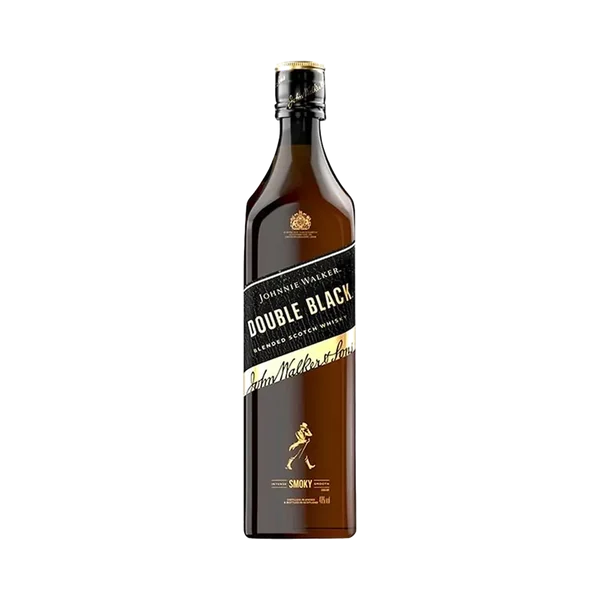
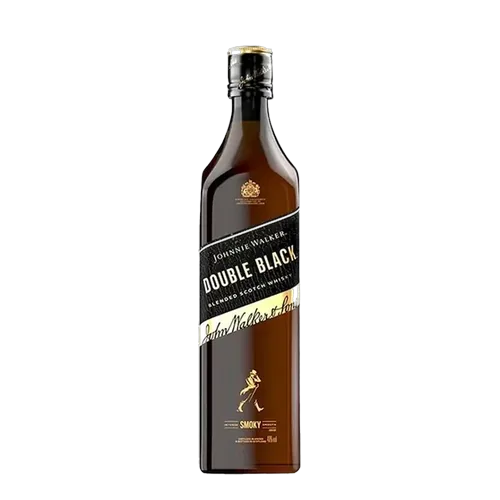
Arreglar el recorte de las fotos en la tarjeta
Las botellas salían cortadas por abajo. La causa es una referencia
circular de CSS Grid, no las fotos:

  .card__img mide 150px de alto, pero su fila implícita es "auto". La
  foto se limita por max-width:82% (223px), y al ser cuadrada pide 223px
  de alto; eso estira la fila a 223px. El max-height:86% de la foto se
  resuelve entonces contra la fila, no contra los 150px de la caja:
  86% de 223 = 192px. El overflow:hidden recortaba los 58px sobrantes,
  que eran justo la base de la botella.

Se fija la fila con grid-template-rows:100%. El 86% vuelve a significar
86% de 150.

El defecto venía de antes; las fotos normalizadas solo lo hicieron
visible. Antes cada foto traía su propio aire y el recorte se comía
espacio vacío en vez de producto.

De paso, 96/92 en lugar de 86/82: las fotos ya vienen con su margen
—el producto ocupa el 86% del lienzo— así que el margen del CSS se
sumaba al de la imagen y dejaba la botella en el 73% de la caja. Ahora
queda en 82% y sigue sobrando holgura para una foto que suban por el
panel sin pasar por la herramienta.

Verificado en escritorio y móvil: peor desborde -3px y -2px.

Las 64 fotos del catálogo pasan a .webp normalizado.

Changed region(s): [[0.39, 0.09, 0.6, 0.96]]

diff --git a/src/Boleto.Web/wwwroot/css/styles.css b/src/Boleto.Web/wwwroot/css/styles.css
@@ -736,15 +736,27 @@ a {
     position: relative;
     overflow: hidden;
     display: grid;
+    /* La fila se fija al alto de la caja. Sin esto es una fila implícita
+       "auto", y el max-height:86% de la foto se resuelve contra ella en vez
+       de contra los 150px: la foto estira la fila, la fila agranda el tope
+       de la foto, y el overflow:hidden termina cortando la botella por
+       abajo. Con la fila fijada, el 86% vuelve a significar 86% de 150. */
+    grid-template-rows: 100%;
     place-items: center;
     background: radial-gradient(circle at 50% 38%,#FFF,var(--crema) 72%);
     border-bottom: 1px solid var(--crema-2);
 }
 /* Se contiene por ancho Y alto: con solo height la imagen se desborda
-   y tapa el cuerpo de la tarjeta. */
+   y tapa el cuerpo de la tarjeta.
+
+   96/92 y no 86/82: las fotos ya vienen normalizadas con su propio aire
+   —el producto ocupa el 86% del lienzo— así que el margen que agregaba el
+   CSS se sumaba al de la imagen y dejaba la botella en el 73% de la caja.
+   Con esto sube al 82% y sigue sobrando holgura para una foto que suban
+   por el panel sin pasar por tools/preparar_fotos.py. */
 .card__foto {
-    max-width: 82%;
-    max-height: 86%;
+    max-width: 92%;
+    max-height: 96%;
     width: auto;
     height: auto;
     object-fit: contain;
